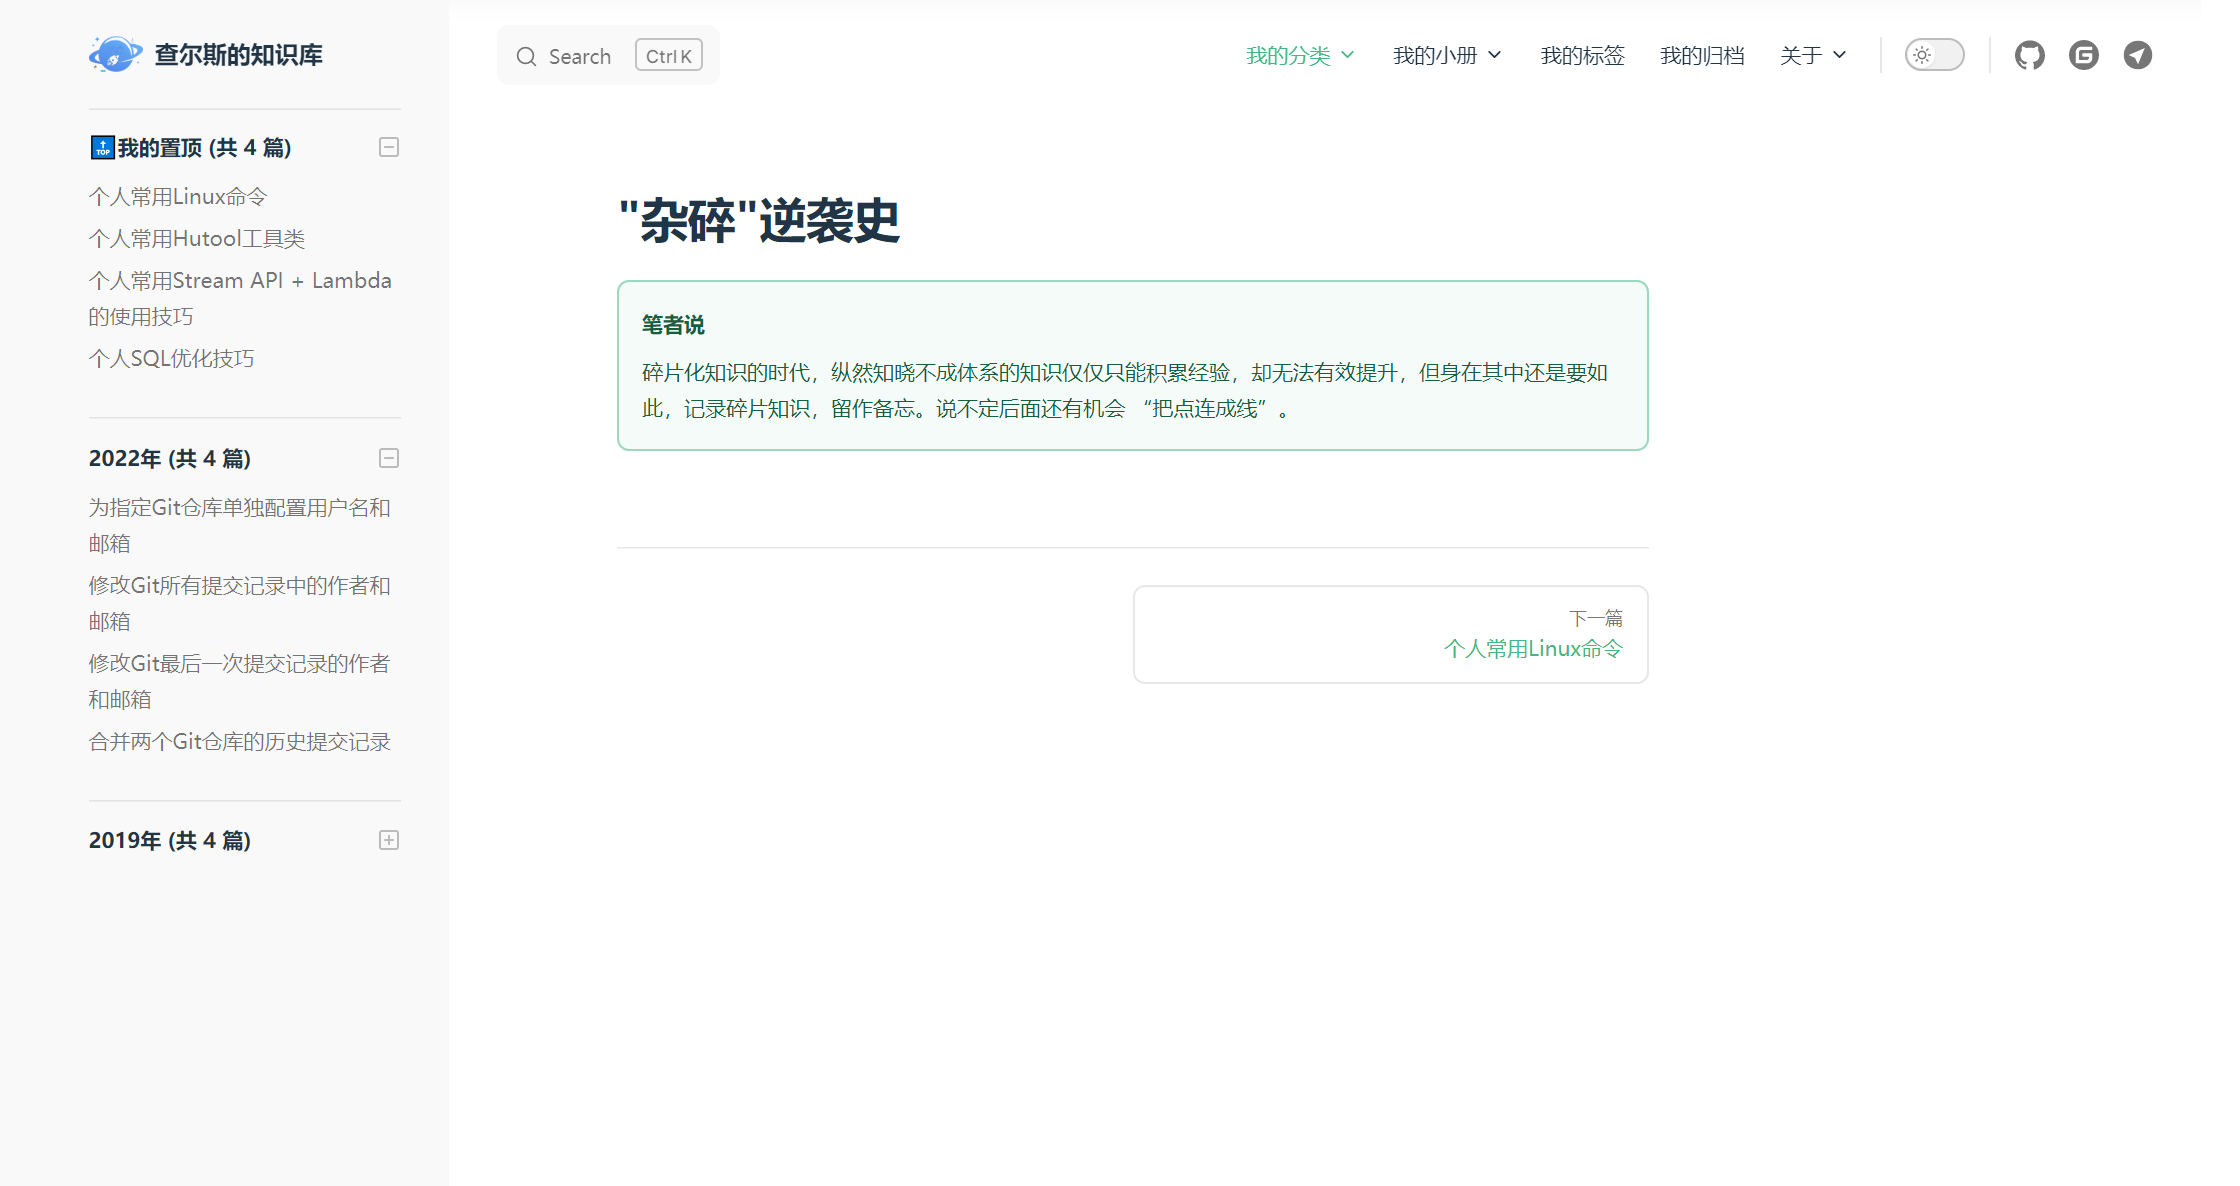
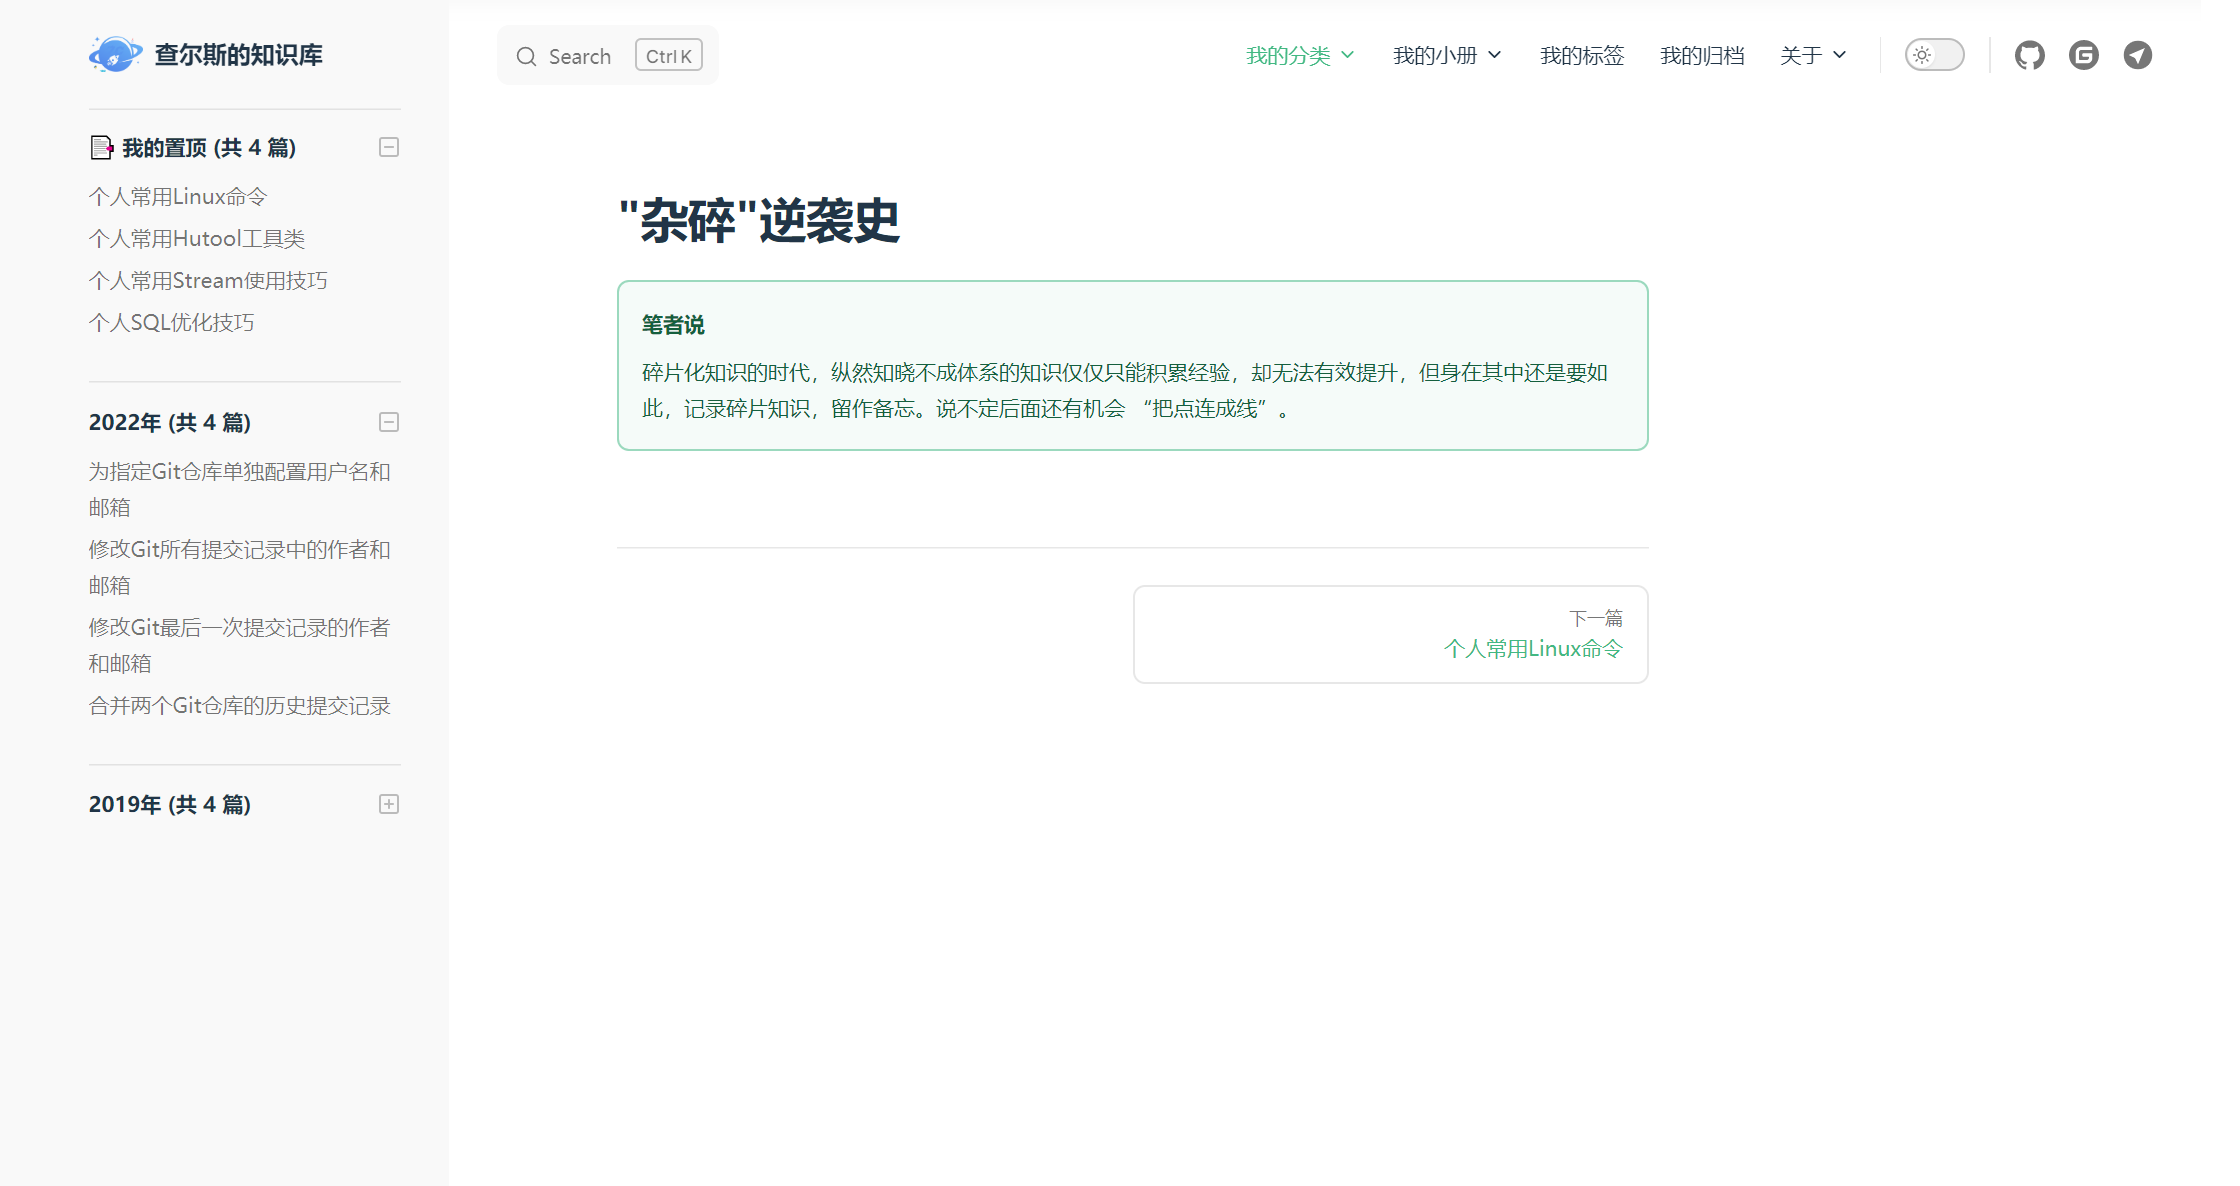
新增：《Java基础快速入门 | 第一个Java程序》

diff --git a/docs/.vitepress/config/sidebar.ts b/docs/.vitepress/config/sidebar.ts
@@ -84,7 +84,7 @@ function getItemsByDate (path: string) {
   if (topArticleItems.length > 0) {
     // 添加置顶分组
     yearGroups.unshift({
-      text: `🔝我的置顶 (共 ${topArticleItems.length} 篇)`,
+      text: `📑 我的置顶 (共 ${topArticleItems.length} 篇)`,
       collapsible: true,
       collapsed: false,
       items: topArticleItems

diff --git a/docs/courses/java/01-Java语法入门/02-第一个Java程序.md b/docs/courses/java/01-Java语法入门/02-第一个Java程序.md
@@ -1,0 +1,193 @@
+---
+title: 第一个Java程序
+author: 查尔斯
+date: 2020/10/03 20:00
+categories:
+ - Java基础快速入门
+tags:
+ - Java
+ - Java基础
+---
+
+# 第一个Java程序
+
+## 前言
+
+**C：** 在上一篇，我们搭建好了 Java 语言的开发环境，这一篇笔者就带着大家愉快的写出我们的第一个程序，不过本篇我们是使用记事本（比较原生态）来写程序，并不使用其他的高级开发工具，所以可能会显得比较低端，请大家见谅。
+
+::: tip 笔者说
+饭要一口一口的吃，工具也要一点一点的升级，技术也要一点一滴的积累。
+:::
+
+![202010031920791](../../../public/img/2020/10/03/202010031920791.jpg)
+
+<!-- more -->
+
+## 开发步骤
+
+一个Java程序的开发，需要经过：编写源码，编译源码和运行，这三大阶段。
+
+![202010031921578](../../../public/img/2020/10/03/202010031921578.png)
+
+和笔者来体验一下吧！**源代码/源程序：程序的原始指令，由程序员编写** 。
+
+1.首先使用记事本编写源代码文件（ Java 程序的源代码文件扩展名为 `.java`）。
+
+![202010031922920](../../../public/img/2020/10/03/202010031922920.png)
+
+2.打开cmd命令窗口，进入源代码所在地，使用 `javac` 命令编译，生成 `.class` 文件。 
+
+![202010031923150](../../../public/img/2020/10/03/202010031923150.png)
+
+::: tip 笔者说
+编写完的源代码，计算机是无法直接执行的，因为它只识别二进制，所以我们需要一个 `翻译官` 帮助我们去翻译下，这样计算机才能够识别。`翻译官` 就是编译器，编译之后就会出现一个扩展名为 `.class` 的字节码文件（它并非纯二进制文件，是运行于JVM中的一种伪二进制文件），这时才能够被计算机执行。
+:::
+
+3.使用 `java` 命令运行 `.class` 文件。
+
+::: warning 笔者说
+运行 `.class` 文件时不能加上 `.class` 后缀名。
+:::
+
+![202010031923562](../../../public/img/2020/10/03/202010031923562.png)
+
+这样我们就实现了第一个 Java 程序，我们借助它给计算机下达了一个在控制台输出 `Hello World!!!` 的指令。
+
+::: details 为什么我们开始编写的第一个程序要输出 Hello World 这句话？
+实际是因为《The C Programming Language》这本 C 语言书籍中使用它做了第一个演示程序，非常著名，所以后来的程序员在学习编程或进行设备调试时延续了这一习惯。  
+
+一个程序员才懂的冷笑话：一位资深程序员到了退休的年纪，为了给自己的晚年生活增加点乐趣，开始学习书法，在开始学习书法的第一天，资深程序员铺开纸张，大笔一挥 `Hello World` ！
+:::
+
+## 基本程序结构
+
+刚才我们编写了第一个 Java 程序，尽管背了相关单词，但肯定还是看的云里雾里的。笔者先给你个提醒，现在呢不要求你过多理解它们的含义，只需要知道它的效果和注意事项即可。随着学习的深入，慢慢就会深入认识和理解了，**千万别钻牛角尖** ，因为还没给你讲的肯定是因为笔者认为目前还不是太适合你的，**欲速则不达** 。
+
+::: warning 下方是你现在需要记忆的注意事项和规范：
+1. 类名与文件名完全一致，首字母大写（帕斯卡/大驼峰命名法）。
+
+2. main() 方法是程序的入口，四要素必不可少。
+
+3. 核心语句：System.out.print**ln**(); 从控制台输出信息，S是大写。（ Java 严格区分大小写）
+
+4. { 和 }一 一对应，缺一不可。（注意模仿笔者的编写习惯）
+
+5. 注意要有层级缩进，一行只写一条语句即可。
+:::
+
+![202010031925166](../../../public/img/2020/10/03/202010031925166.png)
+
+::: tip 笔者说
+“好的代码应该是给人看的，而不是给机器看的。”**  上面的5条注意事项，其实4条都在强调规范，编码规范非常重要！  
+
+一个软件的生命周期中，80%的花费都在于维护。几乎没有任何一个软件，在其整个生命周期中，均由最初的开发人员来维护。编码规范可以改善软件的可读性，可以让程序员尽快而彻底地理解新的代码。更多规范除了模仿笔者文章示例习惯外，还请后续随时与笔者一起解读[《阿里巴巴Java开发手册》](https://github.com/alibaba/p3c/blob/master/Java%E5%BC%80%E5%8F%91%E6%89%8B%E5%86%8C%EF%BC%88%E5%B5%A9%E5%B1%B1%E7%89%88%EF%BC%89.pdf)。
+:::
+
+### 输出语句
+
+其实输出功能，不仅仅只有 `println()` 这一个语法，还有去掉了 `ln` 之后的 `print()` 也可以实现。
+
+```java
+System.out.print(); // 输出完不换行
+System.out.println(); // 输出完换行
+```
+
+如果想让 `print()` 实现 `println()` 的效果，可以借助转义符。
+
+| 转义符 | 说明                           |
+| ------ | ------------------------------ |
+| \n     | 将光标移动到下一行的第一格     |
+| \t     | 将光标移动到下一个水平制表位置 |
+
+```java
+// 下方前两行和第三行代码是等效的。
+System.out.println("Hello");
+System.out.println("World");
+System.out.print("Hello \n World\n");
+```
+
+### 注释
+
+在 Java 的编写过程中我们需要对一些程序进行注释，这样除了自己更方便阅读，别人也更好理解我们的程序，所以我们一定要适时的加一些注释，可以是编程思路或者是程序的作用。
+
+Java 中有三种注释：
+
+1. 单行注释以 `//` 开始；
+2. 多行注释以 `/*` 开头，以 `*/` 结尾；
+3. JavaDoc（文档注释）注释以`/**`开头，以`*/`结尾（文档注释前期了解，后期再掌握）
+
+```java
+/**
+ * HelloWorld.java           
+ * 第一个Java程序
+ */
+public class HelloWorld{
+    public static void main(String[ ] args){
+        // 输出消息到控制台(单行注释后注意添加一个空格，这是一个小规范)
+        System.out.println("Hello  World!!!");      
+    }
+}
+```
+
+![202010031926318](../../../public/img/2020/10/03/202010031926318.jpeg)
+
+## 跨平台原理
+
+在《Java概述》中，笔者讲 Java 的能力时就埋了一个伏笔，Java 程序是跨平台的，何谓跨平台？笔者给你举个非跨平台的程序例子，下图是百度网盘客户端程序的下载页面，它为了能够运行在不同的平台（系统）上，开发了6套系统（其实是7套，还有一套网页版）。看到这其实你就应该能明白为什么跨平台是一个非常优秀的能力了。
+
+![202010031926870](../../../public/img/2020/10/03/202010031926870.png)
+
+![202010031927096](../../../public/img/2020/10/03/202010031927096.png)
+
+而经过刚才编写完第一个 Java 程序之后，我们思考一下 Java 为什么能跨平台？其实在开发步骤中就能找到原因。编译！编译会将源代码转变为字节码文件（伪二进制），而这伪二进制内容未来运行时是运行在 JVM（Java Virtual Machine）上的，换而言之，**其是因为 JVM 能跨平台安装，所以 Java 才能实现跨平台** 。
+
+由此，Java 程序员就可以不用考虑所写的程序要在哪里运行了，反正都是在 JVM 虚拟机上运行的，JVM 会负责将其变成相应平台的机器语言，而这个转变并不是程序员应该关心的。后续的很多优秀程序设计都采用了该思想。
+
+![202010031927359](../../../public/img/2020/10/03/202010031927359.jpeg)
+
+::: tip 《Java虚拟机的分析与研究》
+Java虚拟机有自己完善的硬件架构，如处理器、堆栈等，还具有相应的指令系统。  
+
+Java虚拟机本质上就是一个程序，当它在命令行上启动的时候，就开始执行保存在某字节码文件中的指令。Java语言的可移植性正是建立在Java虚拟机的基础上。任何平台只要装有针对于该平台的Java虚拟机，字节码文件（.class）就可以在该平台上运行。这就是“一次编译，多次运行”。  
+
+Java虚拟机不仅是一种跨平台的软件，而且是一种新的网络计算平台。该平台包括许多相关的技术，如符合开放接口标准的各种API、优化技术等。Java技术使同一种应用可以运行在不同的平台上。Java平台可分为两部分，即Java虚拟机（Java virtual machine，JVM）和Java API类库。[1]  
+:::
+目前先了解到这种程度即可，JVM 深入学习是未来提升 "Java 内功" 的重要一步，但它不太适合刚学习的你。
+
+## 编译和反编译
+
+从刚才的学习中，我们清楚了编译是将源代码文件转换为了字节码文件，这字节码文件也是以后我们运行所需的。如果有一天，你的老板给你了一堆字节码文件，让你去借鉴一下内容(源代码)，你当然知道字节码文件里是一堆乱码了，所以随着而来的，我们需要它再转换为源代码文件，这就是反编译，我们可以借助工具来更快，更好的批量处理。
+
+**编译：** 将源文件（.java）转换成字节码文件（.class）的过程称为编译。  
+**反编译：** 将字节码文件（.class）转换回源文件（.java）的过程称为反编译。（常用有Jad、FrontEnd、jd-gui）
+
+此处仅仅演示利用 `Jad` 来将 HelloWorld.class 进行反编译，类似的工具还有 jd-gui 等。
+
+![202010031927876](../../../public/img/2020/10/03/202010031927876.png)
+
+![202010031927888](../../../public/img/2020/10/03/202010031927888.png)
+
+![202010031928091](../../../public/img/2020/10/03/202010031928091.png)
+
+## 出题环节
+
+### 输出基本信息
+
+::: details 需求：逐行输出个人基本信息。
+提示：个人基本信息可包括：姓名、年龄、性别、身高、体重、婚否等
+:::
+
+## 参考文献
+
+[1]顾玮. Java虚拟机的分析与研究[J]. 办公自动化,2017,22(9):35-36,11
+
+## 后记
+
+今天这篇感觉怎么样？概念是否清楚了？语法是否记住了？万事开头难，加油啊同学！
+
+::: info 笔者说
+对于技术的学习，笔者一贯遵循的步骤是：先用最最简单的 demo 让它跑起来，然后学学它的最最常用 API 和 配置让自己能用起来，最后熟练使用的基础上，在空闲时尝试阅读它的源码让自己能够洞彻它的运行机制，部分问题出现的原因，同时借鉴这些技术实现来提升自己的代码高度。
+
+所以在笔者的文章中，前期基本都是小白文，仅仅穿插很少量的源码研究。当然等小白文更新多了，你们还依然喜欢，后期会不定时专门对部分技术的源码进行解析。
+:::
+

diff --git a/docs/categories/fragments/2019/12/29/个人常用Stream使用技巧.md b/docs/categories/fragments/2019/12/29/个人常用Stream使用技巧.md
@@ -17,12 +17,8 @@ tags:
 
 ## 映射并以指定分隔符进行拼接
 
-::: warning 需求
-将角色中的角色名称取出来，并以 `,` 号分隔的形式将所有角色名称拼接成一个字符串。
-:::
-
-::: tip 实现方案
-通过 `map()` 可以只保留角色名称信息, 通过 `Collectors.joining()` 可以将角色名称以指定分隔符拼接起来。
+::: details 需求：将角色中的角色名称取出来，并以“,”号分隔的形式将所有角色名称拼接成一个字符串。
+实现方案：通过 `map()` 可以只保留角色名称信息, 通过 `Collectors.joining()` 可以将角色名称以指定分隔符拼接起来。
 :::
 
 ```java
